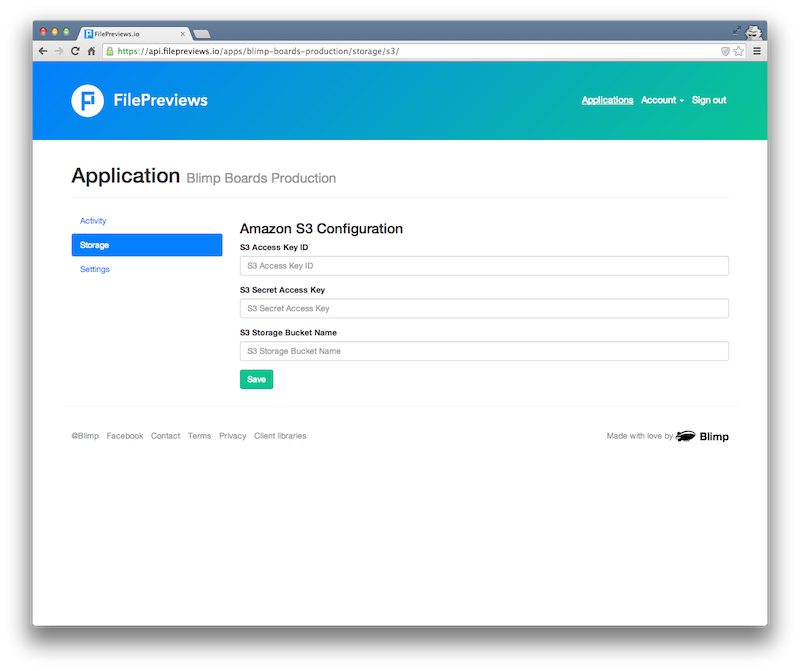
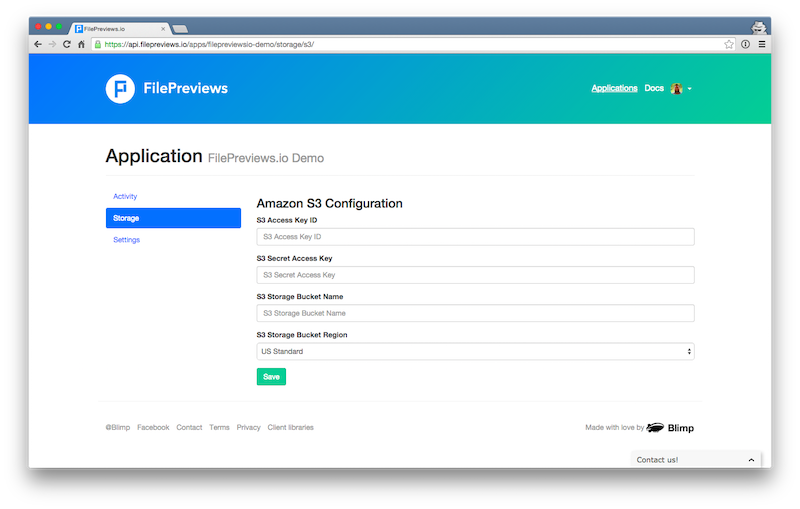
Update storages docs

diff --git a/docs/storages.html b/docs/storages.html
@@ -7,7 +7,7 @@ header: "Storages"
 <br><h4>Amazon S3</h4>
 <p>Uploads and stores the requested previews into an <a href="https://s3.amazonaws.com/">Amazon S3</a> bucket.</p>
 
-<p>To enable storing files in your specified Amazon S3 bucket, make sure to include your <strong>Access Key ID</strong>, <strong>Secret Access Key</strong>, and <strong>S3 Storage Bucket Name</strong> in your application's Storage settings.</p>
+<p>To enable storing files in your specified Amazon S3 bucket, make sure to include your <strong>Access Key ID</strong>, <strong>Secret Access Key</strong>, <strong>S3 Storage Bucket Region</strong>, and <strong>S3 Storage Bucket Name</strong> in your application's Storage settings.</p>
 
 <img class="img-responsive" src="/img/storage-screenshot.png">
 
